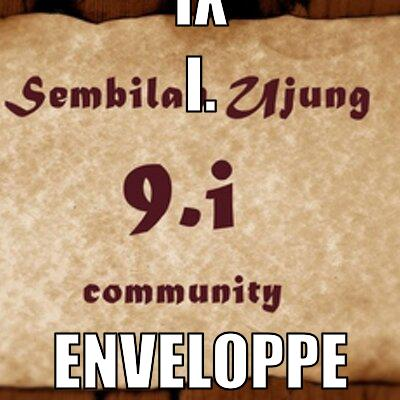
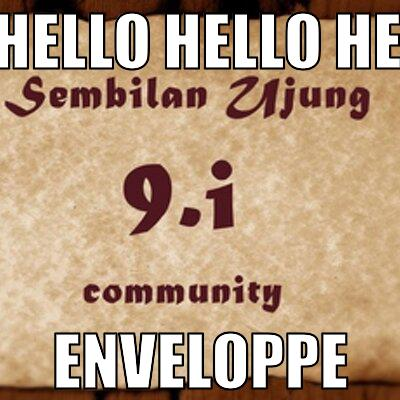
before changing branch

Changed region(s): [[0.0, 0.0, 0.81, 0.3], [0.84, 0.03, 1.0, 0.18]]

diff --git a/server.js b/server.js
@@ -143,7 +143,7 @@ const makeTheMeme = (translatedText) => {
     let options = {
     image: "img_to_predict/actual.jpg",
     outfile: "final.jpg", 
-    topText: `${word.toUpperCase()}`, 
+    topText: `HELLO HELLO HELLO HELLO HELLO EHLOOOO`, 
     bottomText: `${translatedText.toUpperCase()}`,
     fontSize: 70,          
     fontFill: '#FFF', 
@@ -159,6 +159,7 @@ const makeTheMeme = (translatedText) => {
       console.log("image added");
     })
 };
+
 
 // const uploadToCloudinary = () => {
 //   // upload the image to cloudinary
